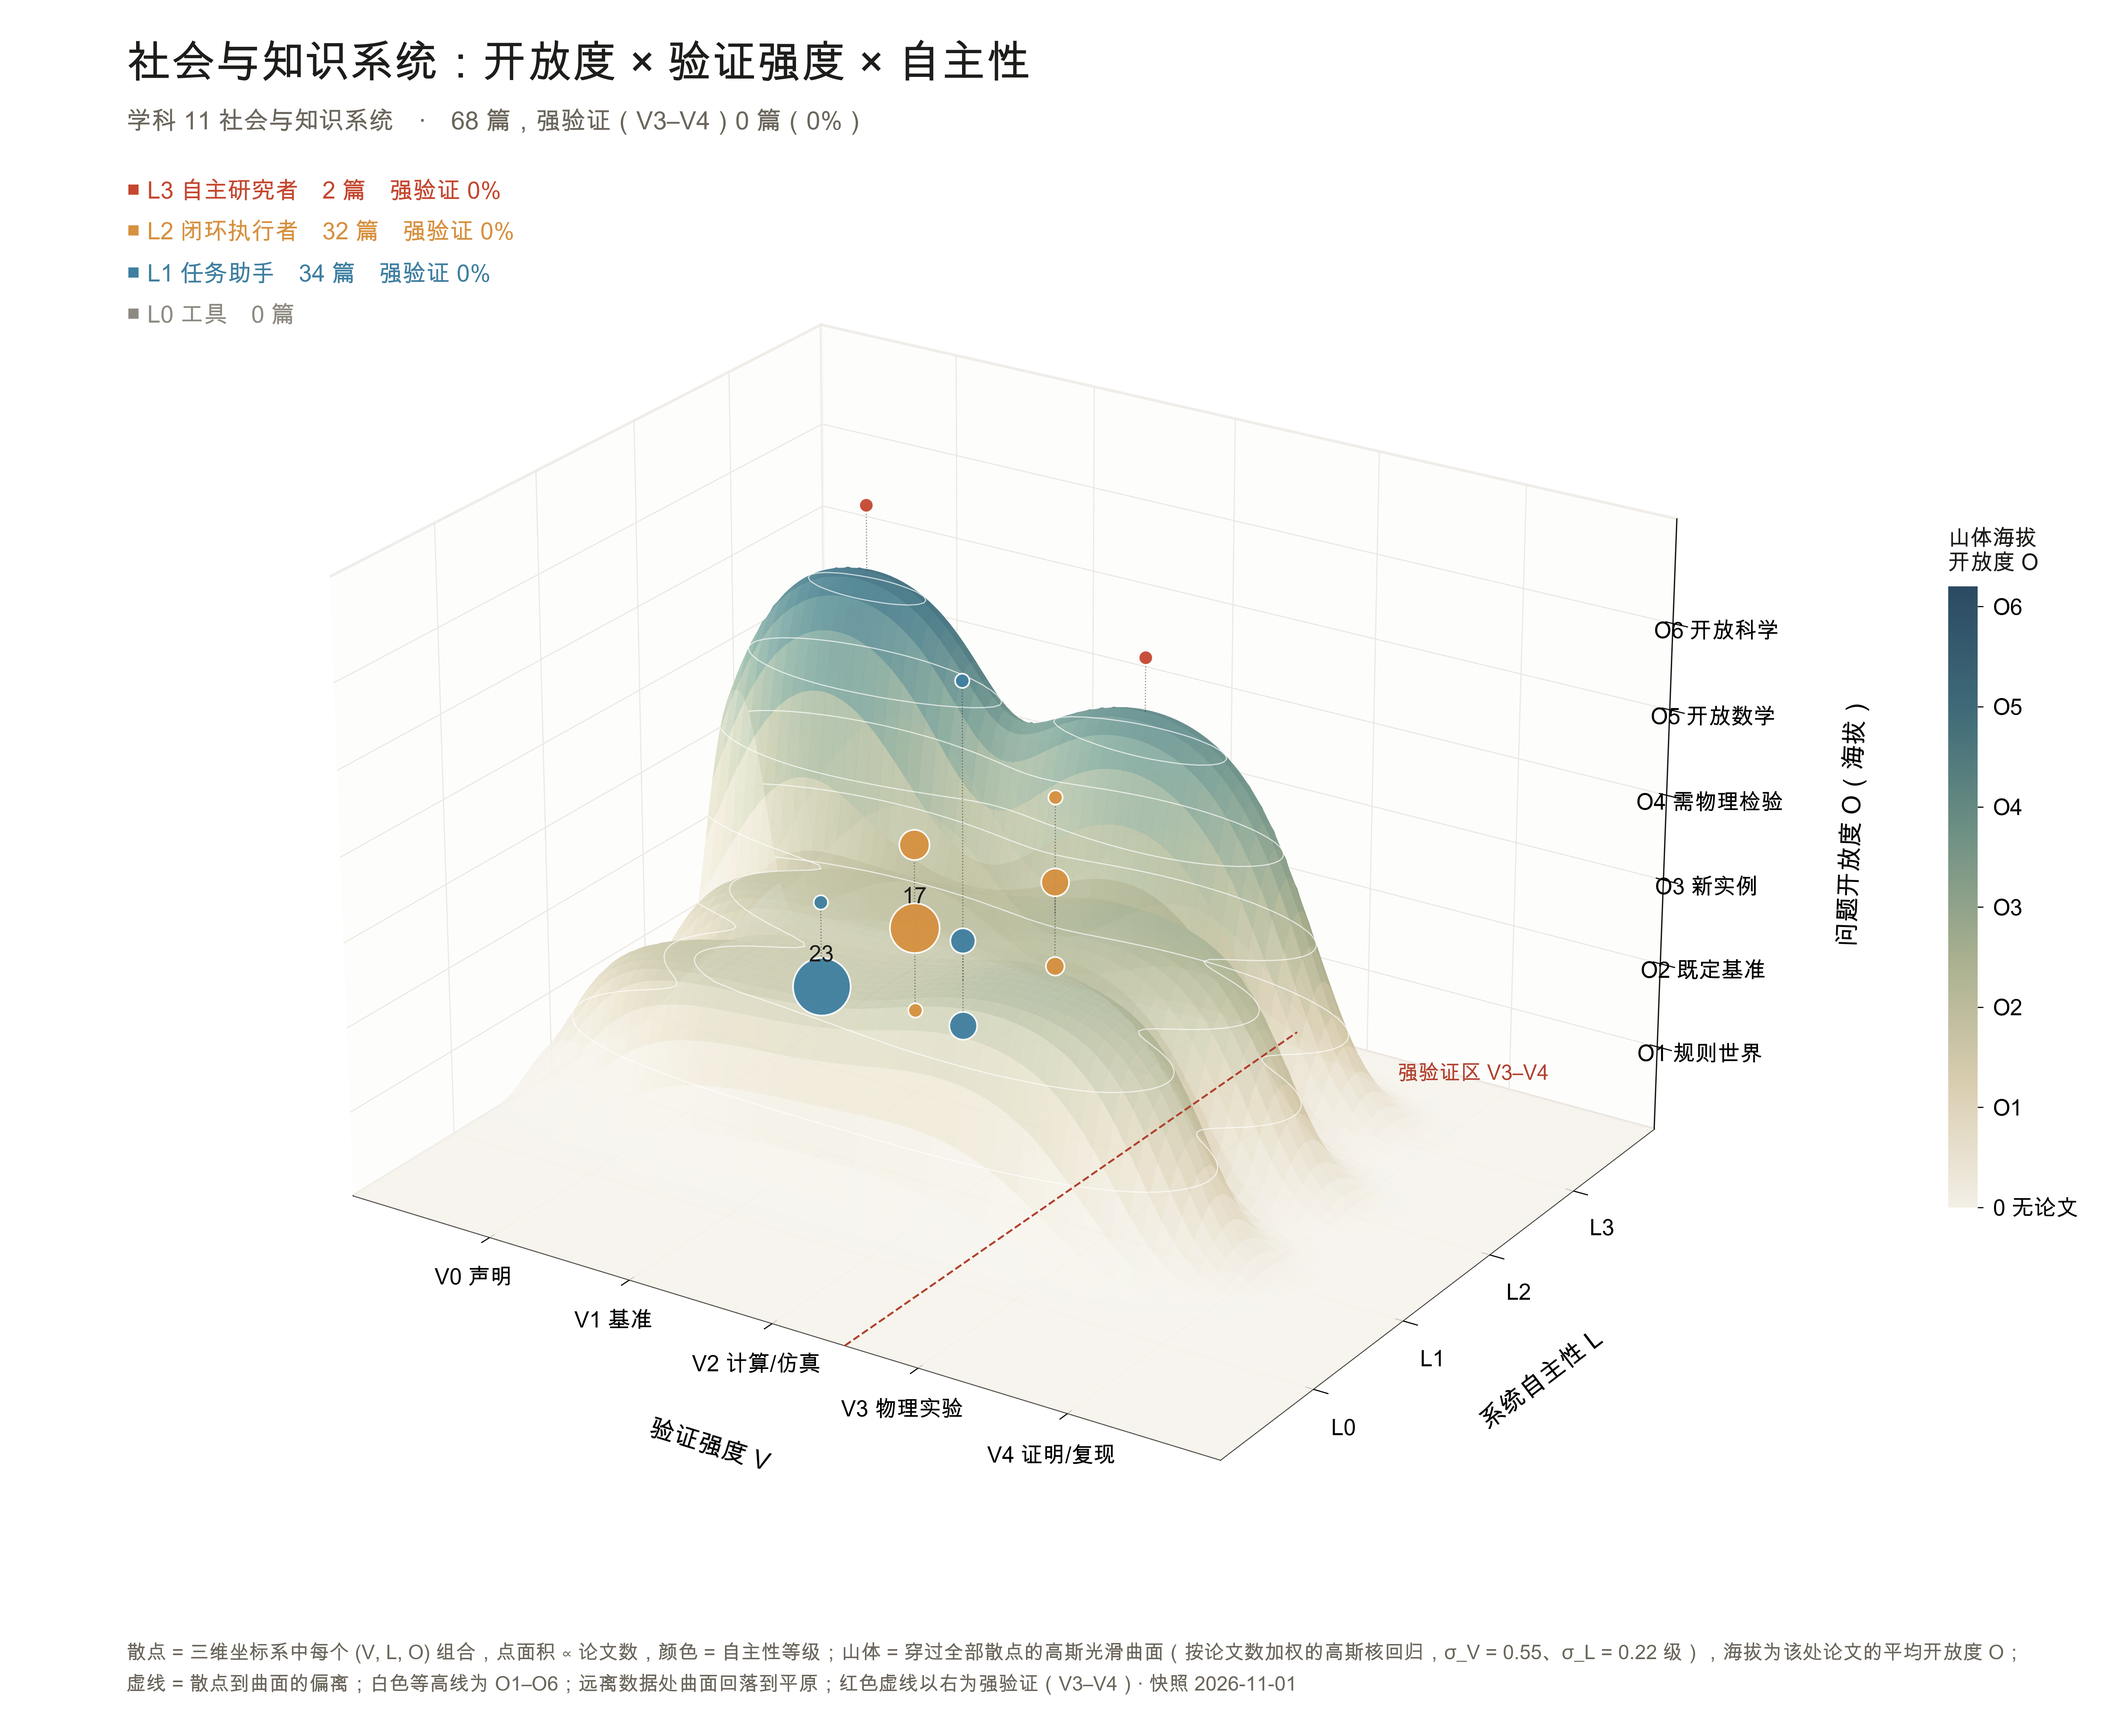
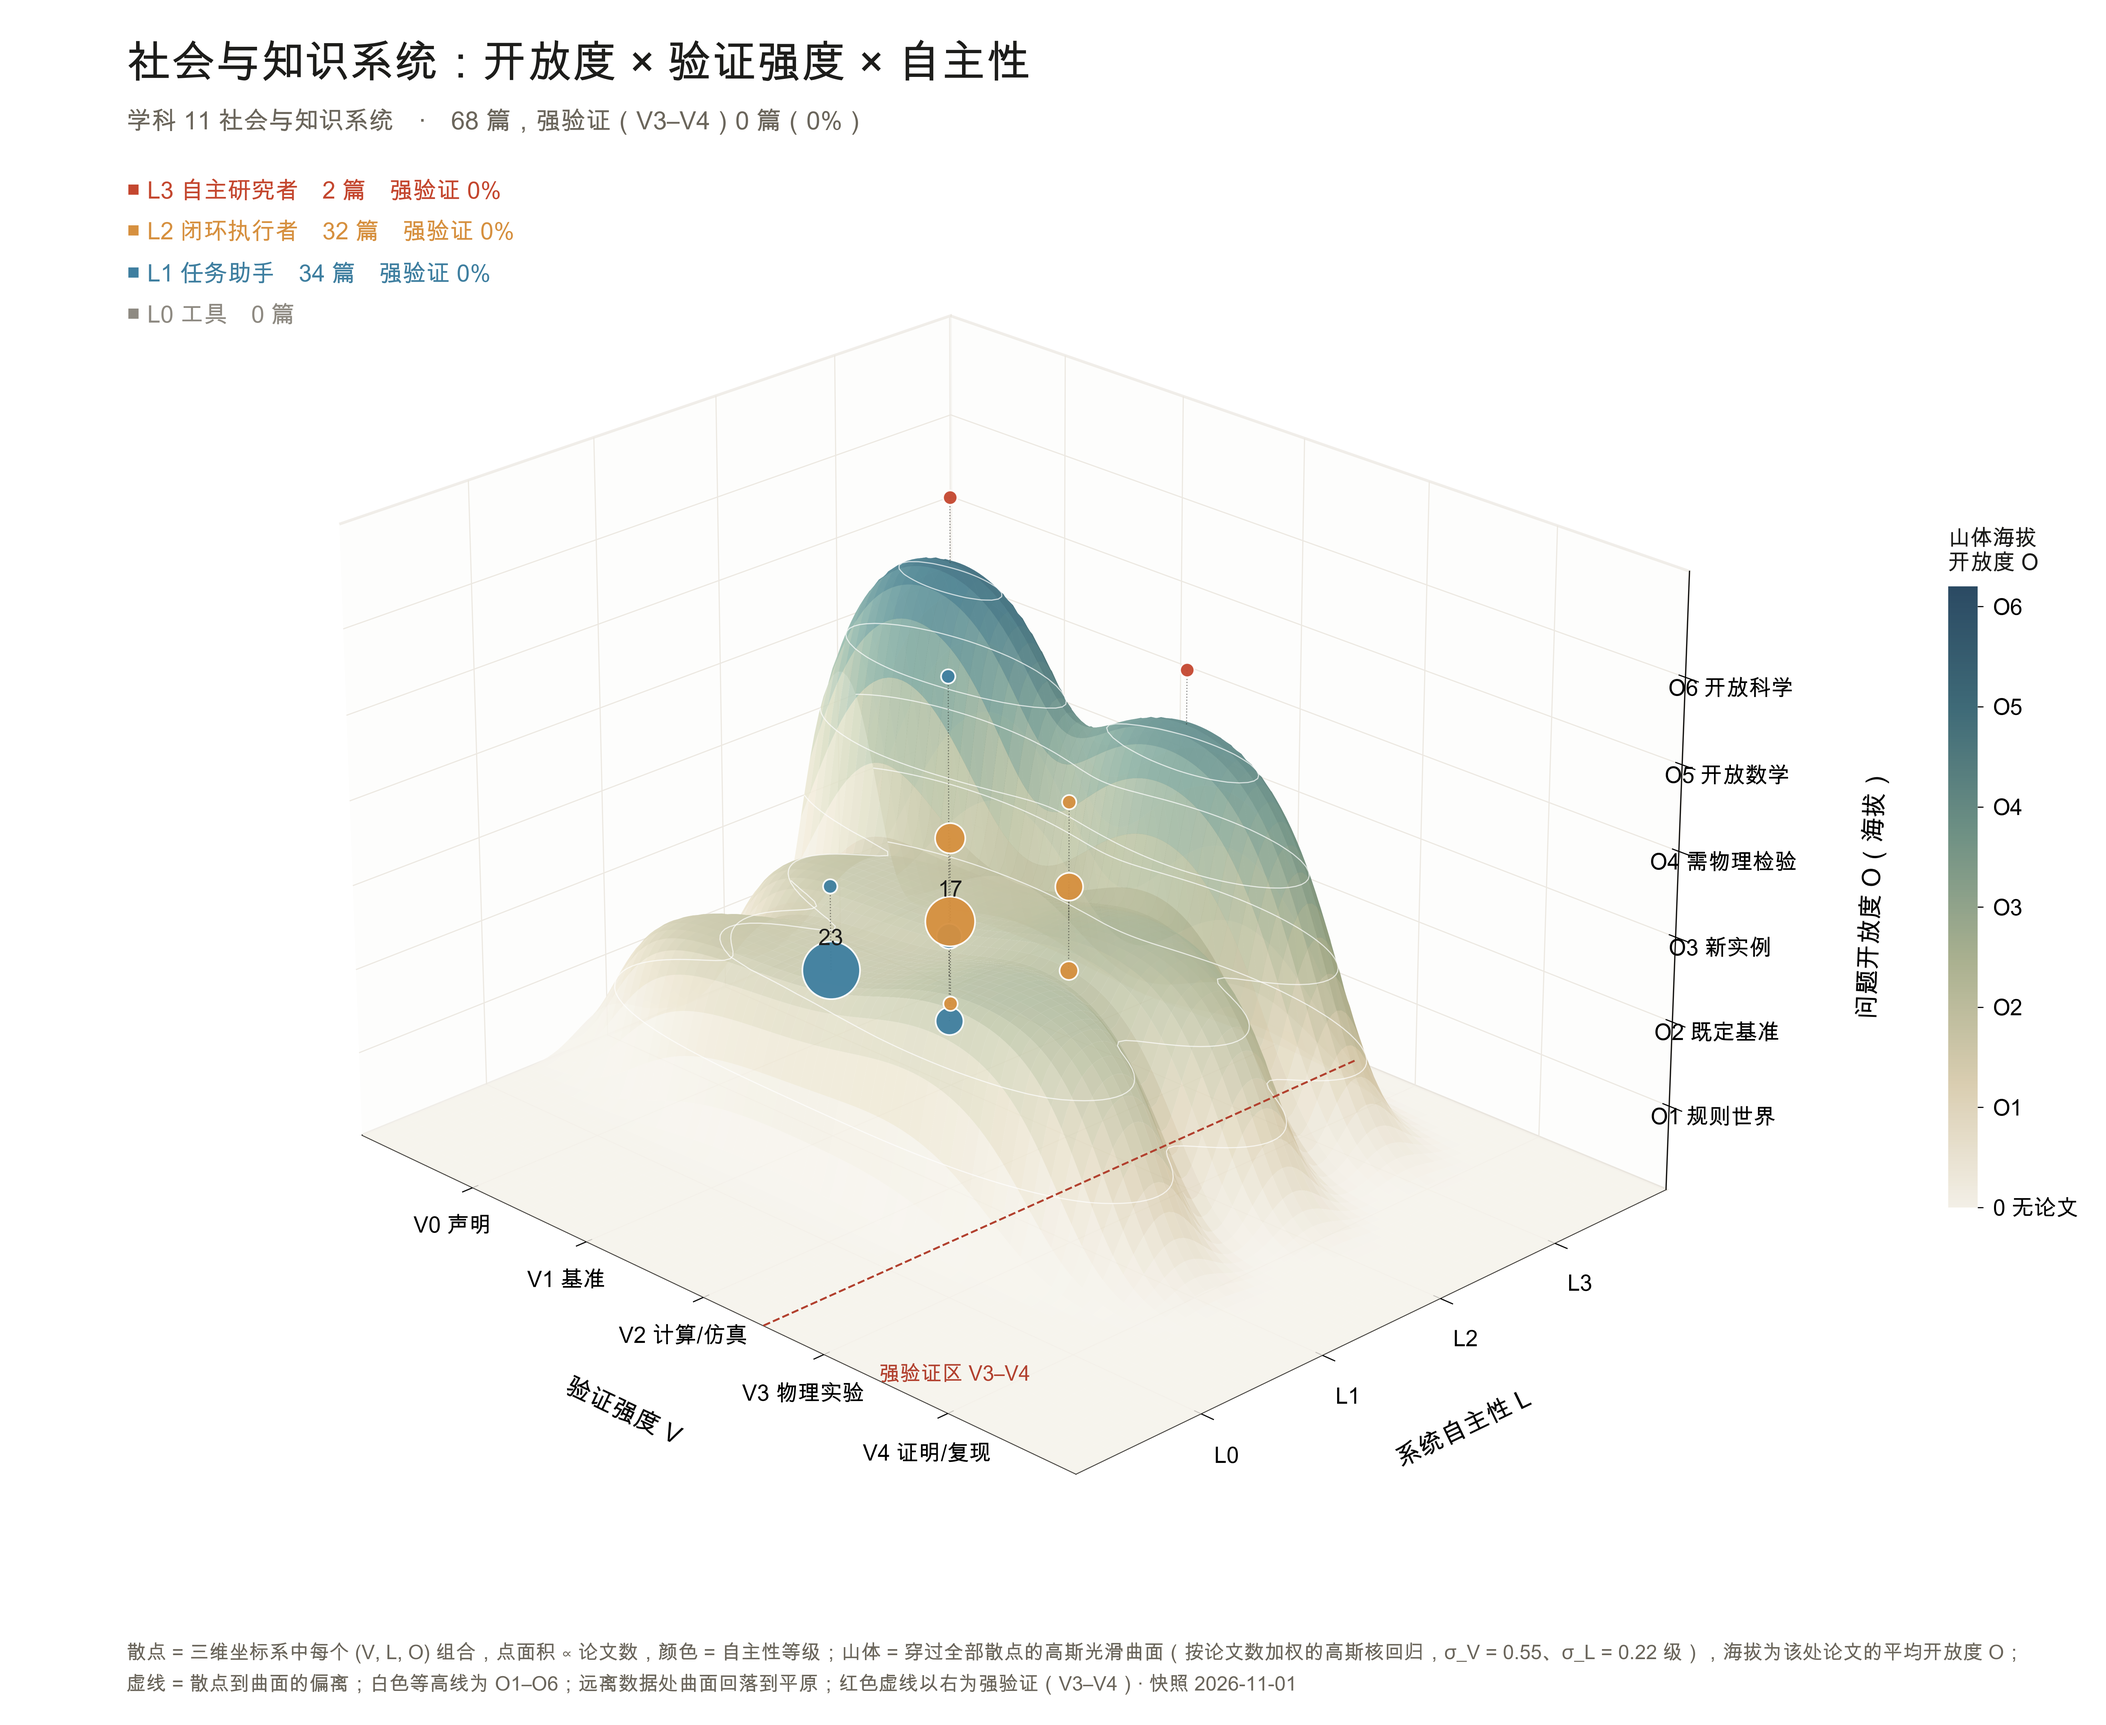
Mountain: rotate the view 12 degrees clockwise (azimuth -45) so the L lines separate

diff --git a/Autonomous Scientific Discovery/Coverage_Check/openness_verification_increment_2026-11-04/scripts/fig_ovl_surface.py b/Autonomous Scientific Discovery/Coverage_Check/openness_verification_increment_2026-11-04/scripts/fig_ovl_surface.py
@@ -147,7 +147,7 @@ def surface_axes(ax, pts, small=False, cut=False, quant=False):
     # strong-verification zone on the plain
     ax.plot([2.5, 2.5], [LY[0], LY[1]], [BASE, BASE], color=ACC, lw=0.7, ls="--", zorder=2)
     if not small:
-        ax.text(3.75, LY[1], BASE, "强验证区 V3–V4", fontsize=7.5, color=ACC, ha="center", zorder=30)
+        ax.text(3.75, LY[0] + 0.3, BASE, "强验证区 V3–V4", fontsize=7.5, color=ACC, ha="center", zorder=30)
     fs = 5.2 if small else 8
     ax.set_xticks(range(5), [f"V{k}" for k in range(5)] if small else V_TICK, fontsize=fs)
     ax.set_yticks(range(4), [f"L{k}" for k in range(4)], fontsize=fs)
@@ -158,7 +158,7 @@ def surface_axes(ax, pts, small=False, cut=False, quant=False):
         a.pane.set_facecolor((0.99, 0.988, 0.982, 1)); a.pane.set_edgecolor("#e4dfd6")
         a._axinfo["grid"].update(color="#ece8e1", linewidth=0.4)
     ax.set_box_aspect((1.45, 1.2, 0.95))
-    ax.view_init(elev=24, azim=-57)
+    ax.view_init(elev=24, azim=-45)
 
 
 FOOT = ("散点 = 三维坐标系中每个 (V, L, O) 组合，点面积 ∝ 论文数，颜色 = 自主性等级；山体 = 穿过全部散点的高斯光滑曲面"

diff --git a/Autonomous Scientific Discovery/Figure_Set_2026-11-04/01_three_axes/mountain_surface_3d/white/fig_ovl_surface.py b/Autonomous Scientific Discovery/Figure_Set_2026-11-04/01_three_axes/mountain_surface_3d/white/fig_ovl_surface.py
@@ -147,7 +147,7 @@ def surface_axes(ax, pts, small=False, cut=False, quant=False):
     # strong-verification zone on the plain
     ax.plot([2.5, 2.5], [LY[0], LY[1]], [BASE, BASE], color=ACC, lw=0.7, ls="--", zorder=2)
     if not small:
-        ax.text(3.75, LY[1], BASE, "强验证区 V3–V4", fontsize=7.5, color=ACC, ha="center", zorder=30)
+        ax.text(3.75, LY[0] + 0.3, BASE, "强验证区 V3–V4", fontsize=7.5, color=ACC, ha="center", zorder=30)
     fs = 5.2 if small else 8
     ax.set_xticks(range(5), [f"V{k}" for k in range(5)] if small else V_TICK, fontsize=fs)
     ax.set_yticks(range(4), [f"L{k}" for k in range(4)], fontsize=fs)
@@ -158,7 +158,7 @@ def surface_axes(ax, pts, small=False, cut=False, quant=False):
         a.pane.set_facecolor((0.99, 0.988, 0.982, 1)); a.pane.set_edgecolor("#e4dfd6")
         a._axinfo["grid"].update(color="#ece8e1", linewidth=0.4)
     ax.set_box_aspect((1.45, 1.2, 0.95))
-    ax.view_init(elev=24, azim=-57)
+    ax.view_init(elev=24, azim=-45)
 
 
 FOOT = ("散点 = 三维坐标系中每个 (V, L, O) 组合，点面积 ∝ 论文数，颜色 = 自主性等级；山体 = 穿过全部散点的高斯光滑曲面"

diff --git a/Autonomous Scientific Discovery/Figure_Set_2026-11-04/01_three_axes/mountain_surface_3d_by_field/white/fig_ovl_surface.py b/Autonomous Scientific Discovery/Figure_Set_2026-11-04/01_three_axes/mountain_surface_3d_by_field/white/fig_ovl_surface.py
@@ -147,7 +147,7 @@ def surface_axes(ax, pts, small=False, cut=False, quant=False):
     # strong-verification zone on the plain
     ax.plot([2.5, 2.5], [LY[0], LY[1]], [BASE, BASE], color=ACC, lw=0.7, ls="--", zorder=2)
     if not small:
-        ax.text(3.75, LY[1], BASE, "强验证区 V3–V4", fontsize=7.5, color=ACC, ha="center", zorder=30)
+        ax.text(3.75, LY[0] + 0.3, BASE, "强验证区 V3–V4", fontsize=7.5, color=ACC, ha="center", zorder=30)
     fs = 5.2 if small else 8
     ax.set_xticks(range(5), [f"V{k}" for k in range(5)] if small else V_TICK, fontsize=fs)
     ax.set_yticks(range(4), [f"L{k}" for k in range(4)], fontsize=fs)
@@ -158,7 +158,7 @@ def surface_axes(ax, pts, small=False, cut=False, quant=False):
         a.pane.set_facecolor((0.99, 0.988, 0.982, 1)); a.pane.set_edgecolor("#e4dfd6")
         a._axinfo["grid"].update(color="#ece8e1", linewidth=0.4)
     ax.set_box_aspect((1.45, 1.2, 0.95))
-    ax.view_init(elev=24, azim=-57)
+    ax.view_init(elev=24, azim=-45)
 
 
 FOOT = ("散点 = 三维坐标系中每个 (V, L, O) 组合，点面积 ∝ 论文数，颜色 = 自主性等级；山体 = 穿过全部散点的高斯光滑曲面"

diff --git a/Autonomous Scientific Discovery/Figure_Set_2026-11-04/code/fig_ovl_surface.py b/Autonomous Scientific Discovery/Figure_Set_2026-11-04/code/fig_ovl_surface.py
@@ -147,7 +147,7 @@ def surface_axes(ax, pts, small=False, cut=False, quant=False):
     # strong-verification zone on the plain
     ax.plot([2.5, 2.5], [LY[0], LY[1]], [BASE, BASE], color=ACC, lw=0.7, ls="--", zorder=2)
     if not small:
-        ax.text(3.75, LY[1], BASE, "强验证区 V3–V4", fontsize=7.5, color=ACC, ha="center", zorder=30)
+        ax.text(3.75, LY[0] + 0.3, BASE, "强验证区 V3–V4", fontsize=7.5, color=ACC, ha="center", zorder=30)
     fs = 5.2 if small else 8
     ax.set_xticks(range(5), [f"V{k}" for k in range(5)] if small else V_TICK, fontsize=fs)
     ax.set_yticks(range(4), [f"L{k}" for k in range(4)], fontsize=fs)
@@ -158,7 +158,7 @@ def surface_axes(ax, pts, small=False, cut=False, quant=False):
         a.pane.set_facecolor((0.99, 0.988, 0.982, 1)); a.pane.set_edgecolor("#e4dfd6")
         a._axinfo["grid"].update(color="#ece8e1", linewidth=0.4)
     ax.set_box_aspect((1.45, 1.2, 0.95))
-    ax.view_init(elev=24, azim=-57)
+    ax.view_init(elev=24, azim=-45)
 
 
 FOOT = ("散点 = 三维坐标系中每个 (V, L, O) 组合，点面积 ∝ 论文数，颜色 = 自主性等级；山体 = 穿过全部散点的高斯光滑曲面"
